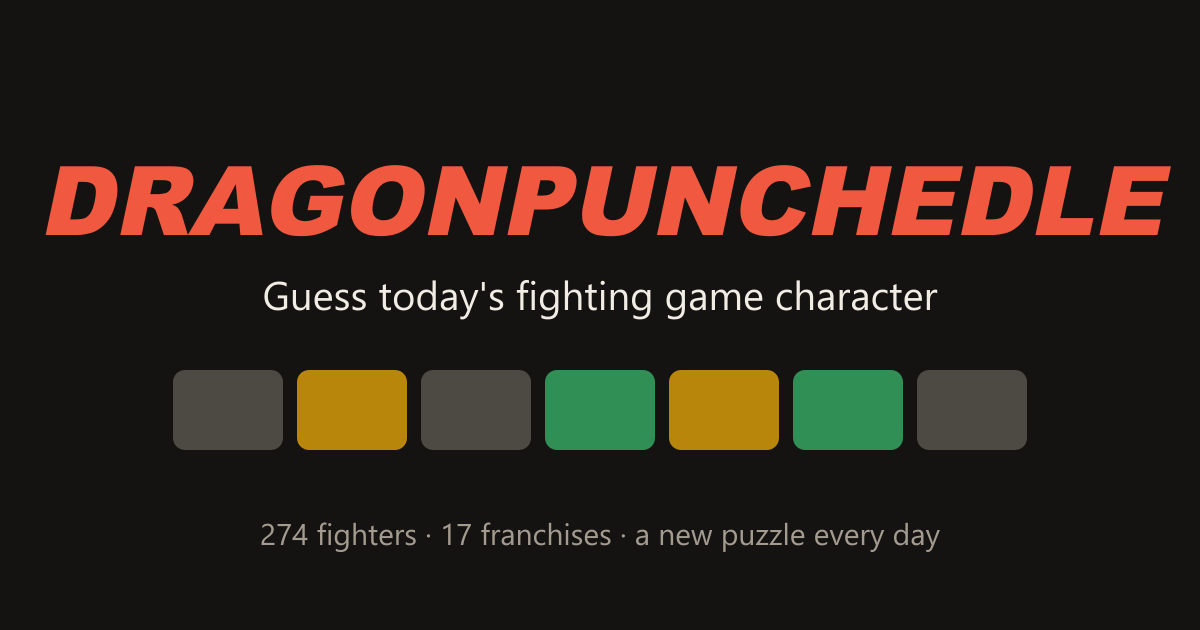
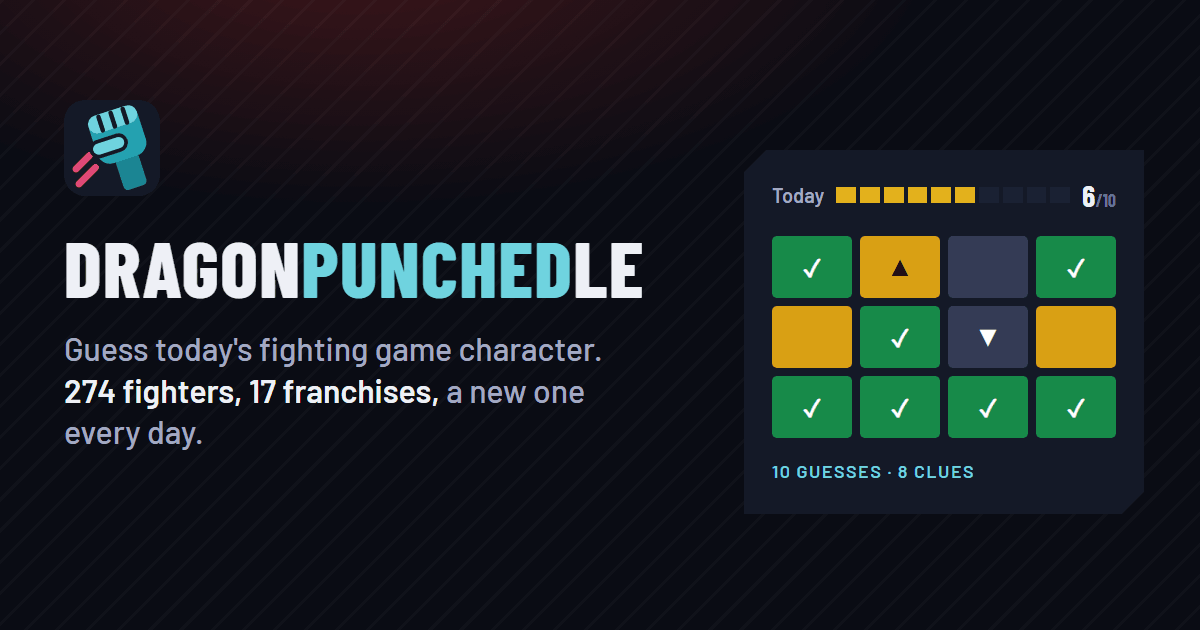
Redo the link preview in the current style
The logo with PUNCHED highlighted, the new fist icon, the tagline, and a
cut-corner panel with a health bar and clue tiles. No character art, as
this image is copied wherever the link is shared. Rendered from HTML with
the site's own fonts.

Changed region(s): [[0.0308, 0.1508, 0.9867, 0.7841], [0.1233, 0.0, 0.4933, 0.0905], [0.2158, 0.8143, 0.8017, 0.8746]]

diff --git a/apps/web/index.html b/apps/web/index.html
@@ -25,7 +25,7 @@
     <meta property="og:image" content="%SITE_URL%/og-image.png" />
     <meta property="og:image:width" content="1200" />
     <meta property="og:image:height" content="630" />
-    <meta property="og:image:alt" content="Dragonpunchedle logo above a row of green, yellow and grey clue tiles" />
+    <meta property="og:image:alt" content="The Dragonpunchedle logo beside a game panel: a health bar and rows of green, yellow and grey clue tiles" />
     <meta name="twitter:card" content="summary_large_image" />
   </head>
   <body>
